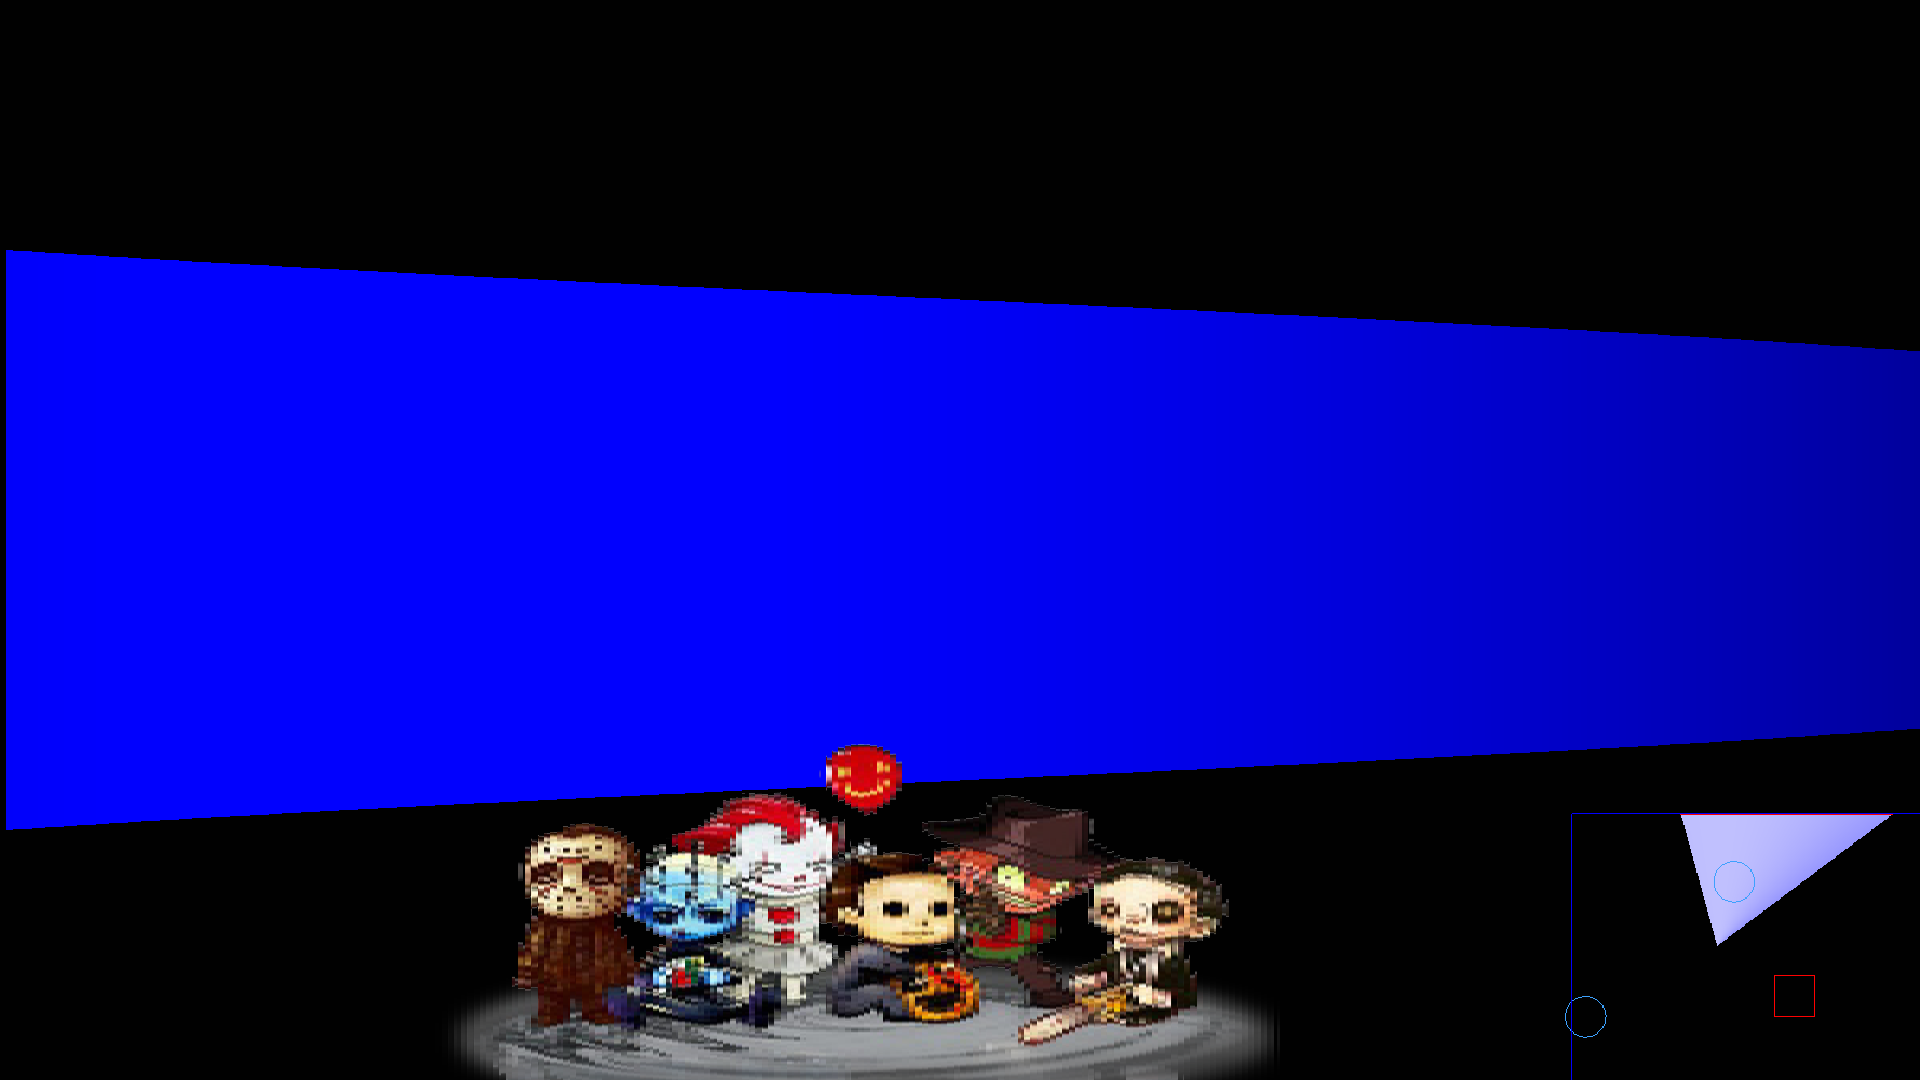
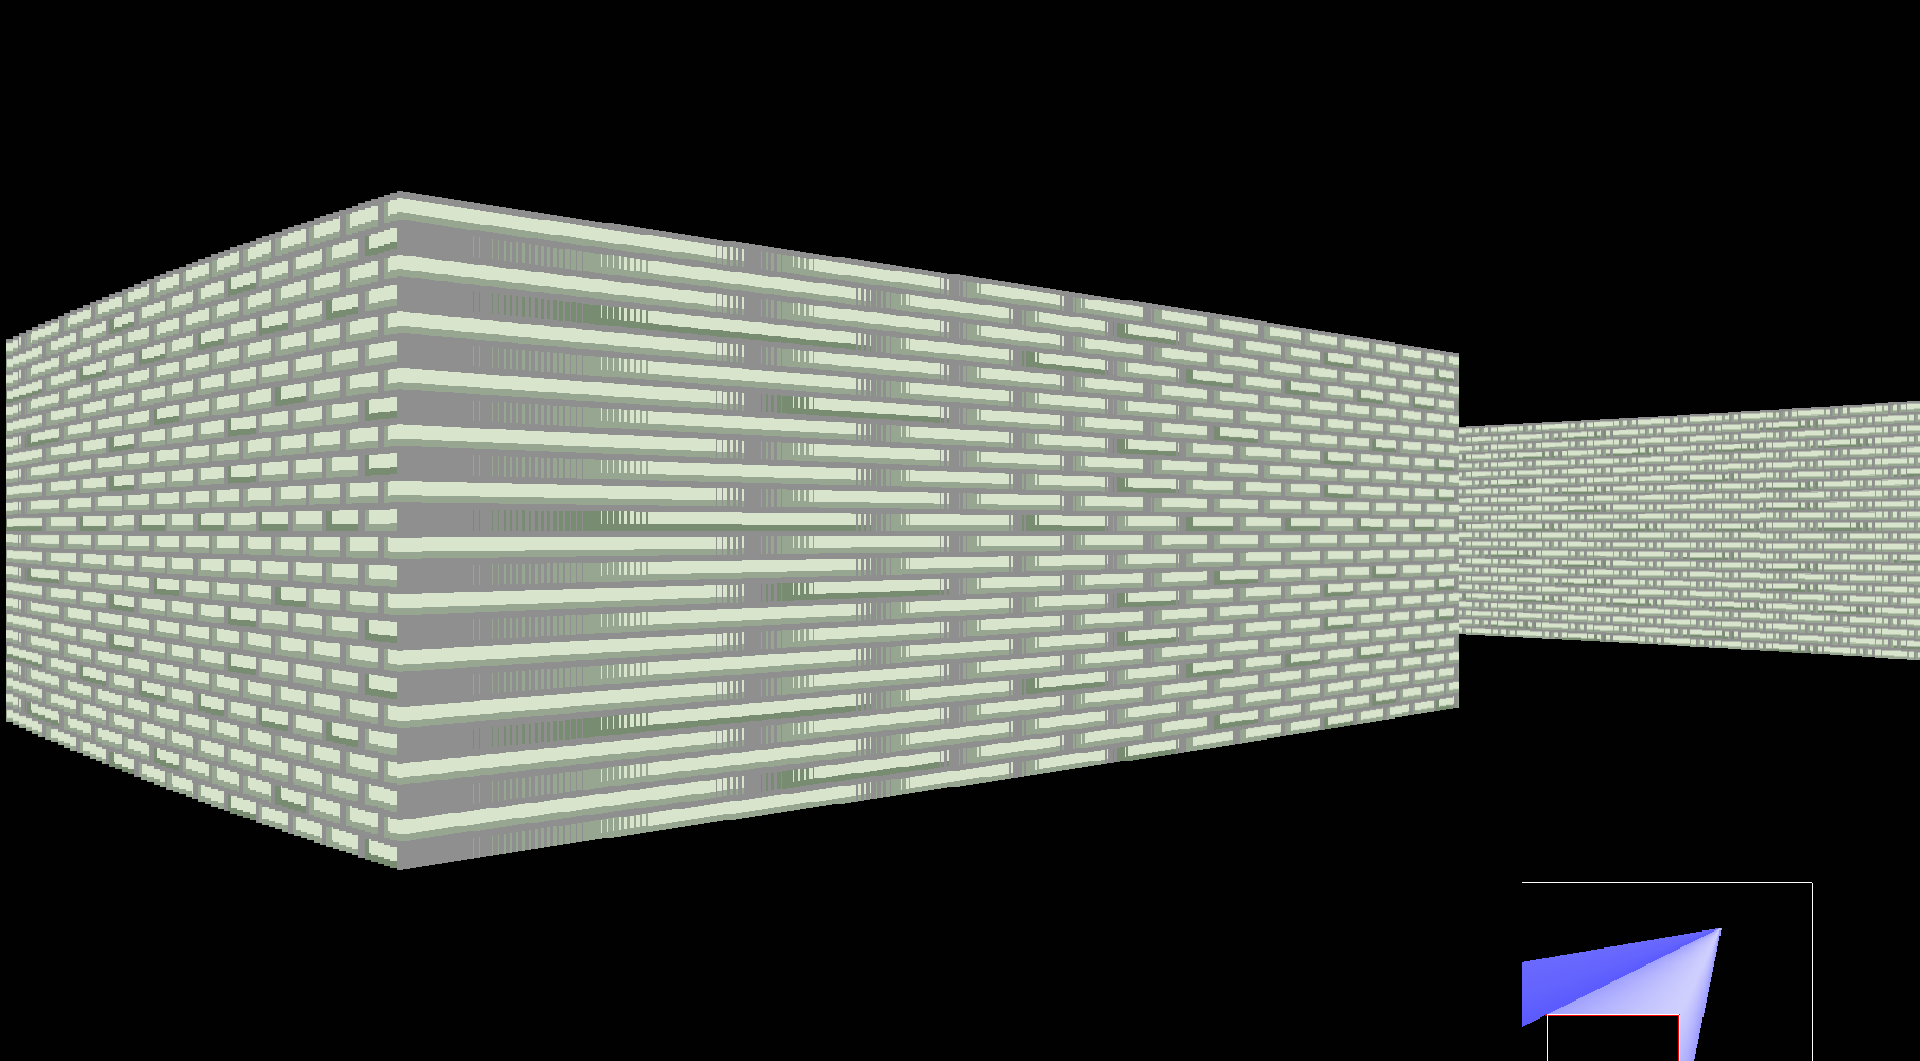
problem with seable Rect

diff --git a/Raycasting/src/game/GameLogicInterface.cpp b/Raycasting/src/game/GameLogicInterface.cpp
@@ -17,7 +17,7 @@ namespace {
 	std::string myText = "This is some sample text...";
 
 	Texture brickTexture("assets/bricks.jfif");
-	Texture cat("assets/02 cat.png");
+	Texture grimeTexture("assets/Grime.png");
 
 	static std::array<float, 4> green = { 0.3f, 1.0f, 0.3f, 0.7f };
 
@@ -34,13 +34,13 @@ void GameLogicInterface::init() {
 
 	//outer walls
 
-	walls.push_back(new SeeableLine(1.5f, 1.5f, -1.5f, 1.5f, 0, 0, 1));
-	walls.push_back(new SeeableLine(-1.5f, 1.5f, -1.5f, -1.5f, 0, 0, 1));
-	walls.push_back(new SeeableLine(-1.5f, -1.5f, 1.5f, -1.5f, 0, 0, 1));
-	walls.push_back(new SeeableLine(1.5f, -1.5f, 1.5f, 1.5f, 0, 0, 1));
+	walls.push_back(new SeeableLine(1.5f, 1.5f, -1.5f, 1.5f, &grimeTexture));
+	walls.push_back(new SeeableLine(-1.5f, 1.5f, -1.5f, -1.5f, &grimeTexture));
+	walls.push_back(new SeeableLine(-1.5f, -1.5f, 1.5f, -1.5f, &grimeTexture));
+	walls.push_back(new SeeableLine(1.5f, -1.5f, 1.5f, 1.5f, &grimeTexture));
 
-
-	props.push_back(new Prop(1.f, 0.f, .25, .5, cat, "cat", .1));
+	walls.push_back(new SeeableRectangle(-.5f,-.5f,1,1,&grimeTexture));
+	
 
 
 
@@ -52,22 +52,17 @@ void GameLogicInterface::init() {
 
 
 
-	Prop* luis = new Prop(-0.3f, 1.0f, 0.3f, 0.9f, *TextureManager::getTexture("assets/testSprite.png"));
-	luis->setZ(-0.6f);
-	props.push_back(luis);
+	//static AnimatedSprite runner("assets/spritestrip.png");
+	//runner.addFrame(80, 0, 0, 255, 255);
+	//runner.addFrame(80, 255, 0, 255, 255);
+	//runner.addFrame(80, 255 * 2, 0, 255, 255);
+	//runner.addFrame(80, 255 * 3, 0, 255, 255);
+	//runner.addFrame(80, 255 * 4, 0, 255, 255);
+	//runner.addFrame(80, 255 * 5, 0, 255, 255);
 
+	//Prop* maProp = new Prop(-1.4f, 0.0f, 0.3f, 0.6f, runner);
 
-	static AnimatedSprite runner("assets/spritestrip.png");
-	runner.addFrame(80, 0, 0, 255, 255);
-	runner.addFrame(80, 255, 0, 255, 255);
-	runner.addFrame(80, 255 * 2, 0, 255, 255);
-	runner.addFrame(80, 255 * 3, 0, 255, 255);
-	runner.addFrame(80, 255 * 4, 0, 255, 255);
-	runner.addFrame(80, 255 * 5, 0, 255, 255);
-
-	Prop* maProp = new Prop(-1.4f, 0.0f, 0.3f, 0.6f, runner);
-
-	props.push_back(maProp);
+	//props.push_back(maProp);
 
 
 }
